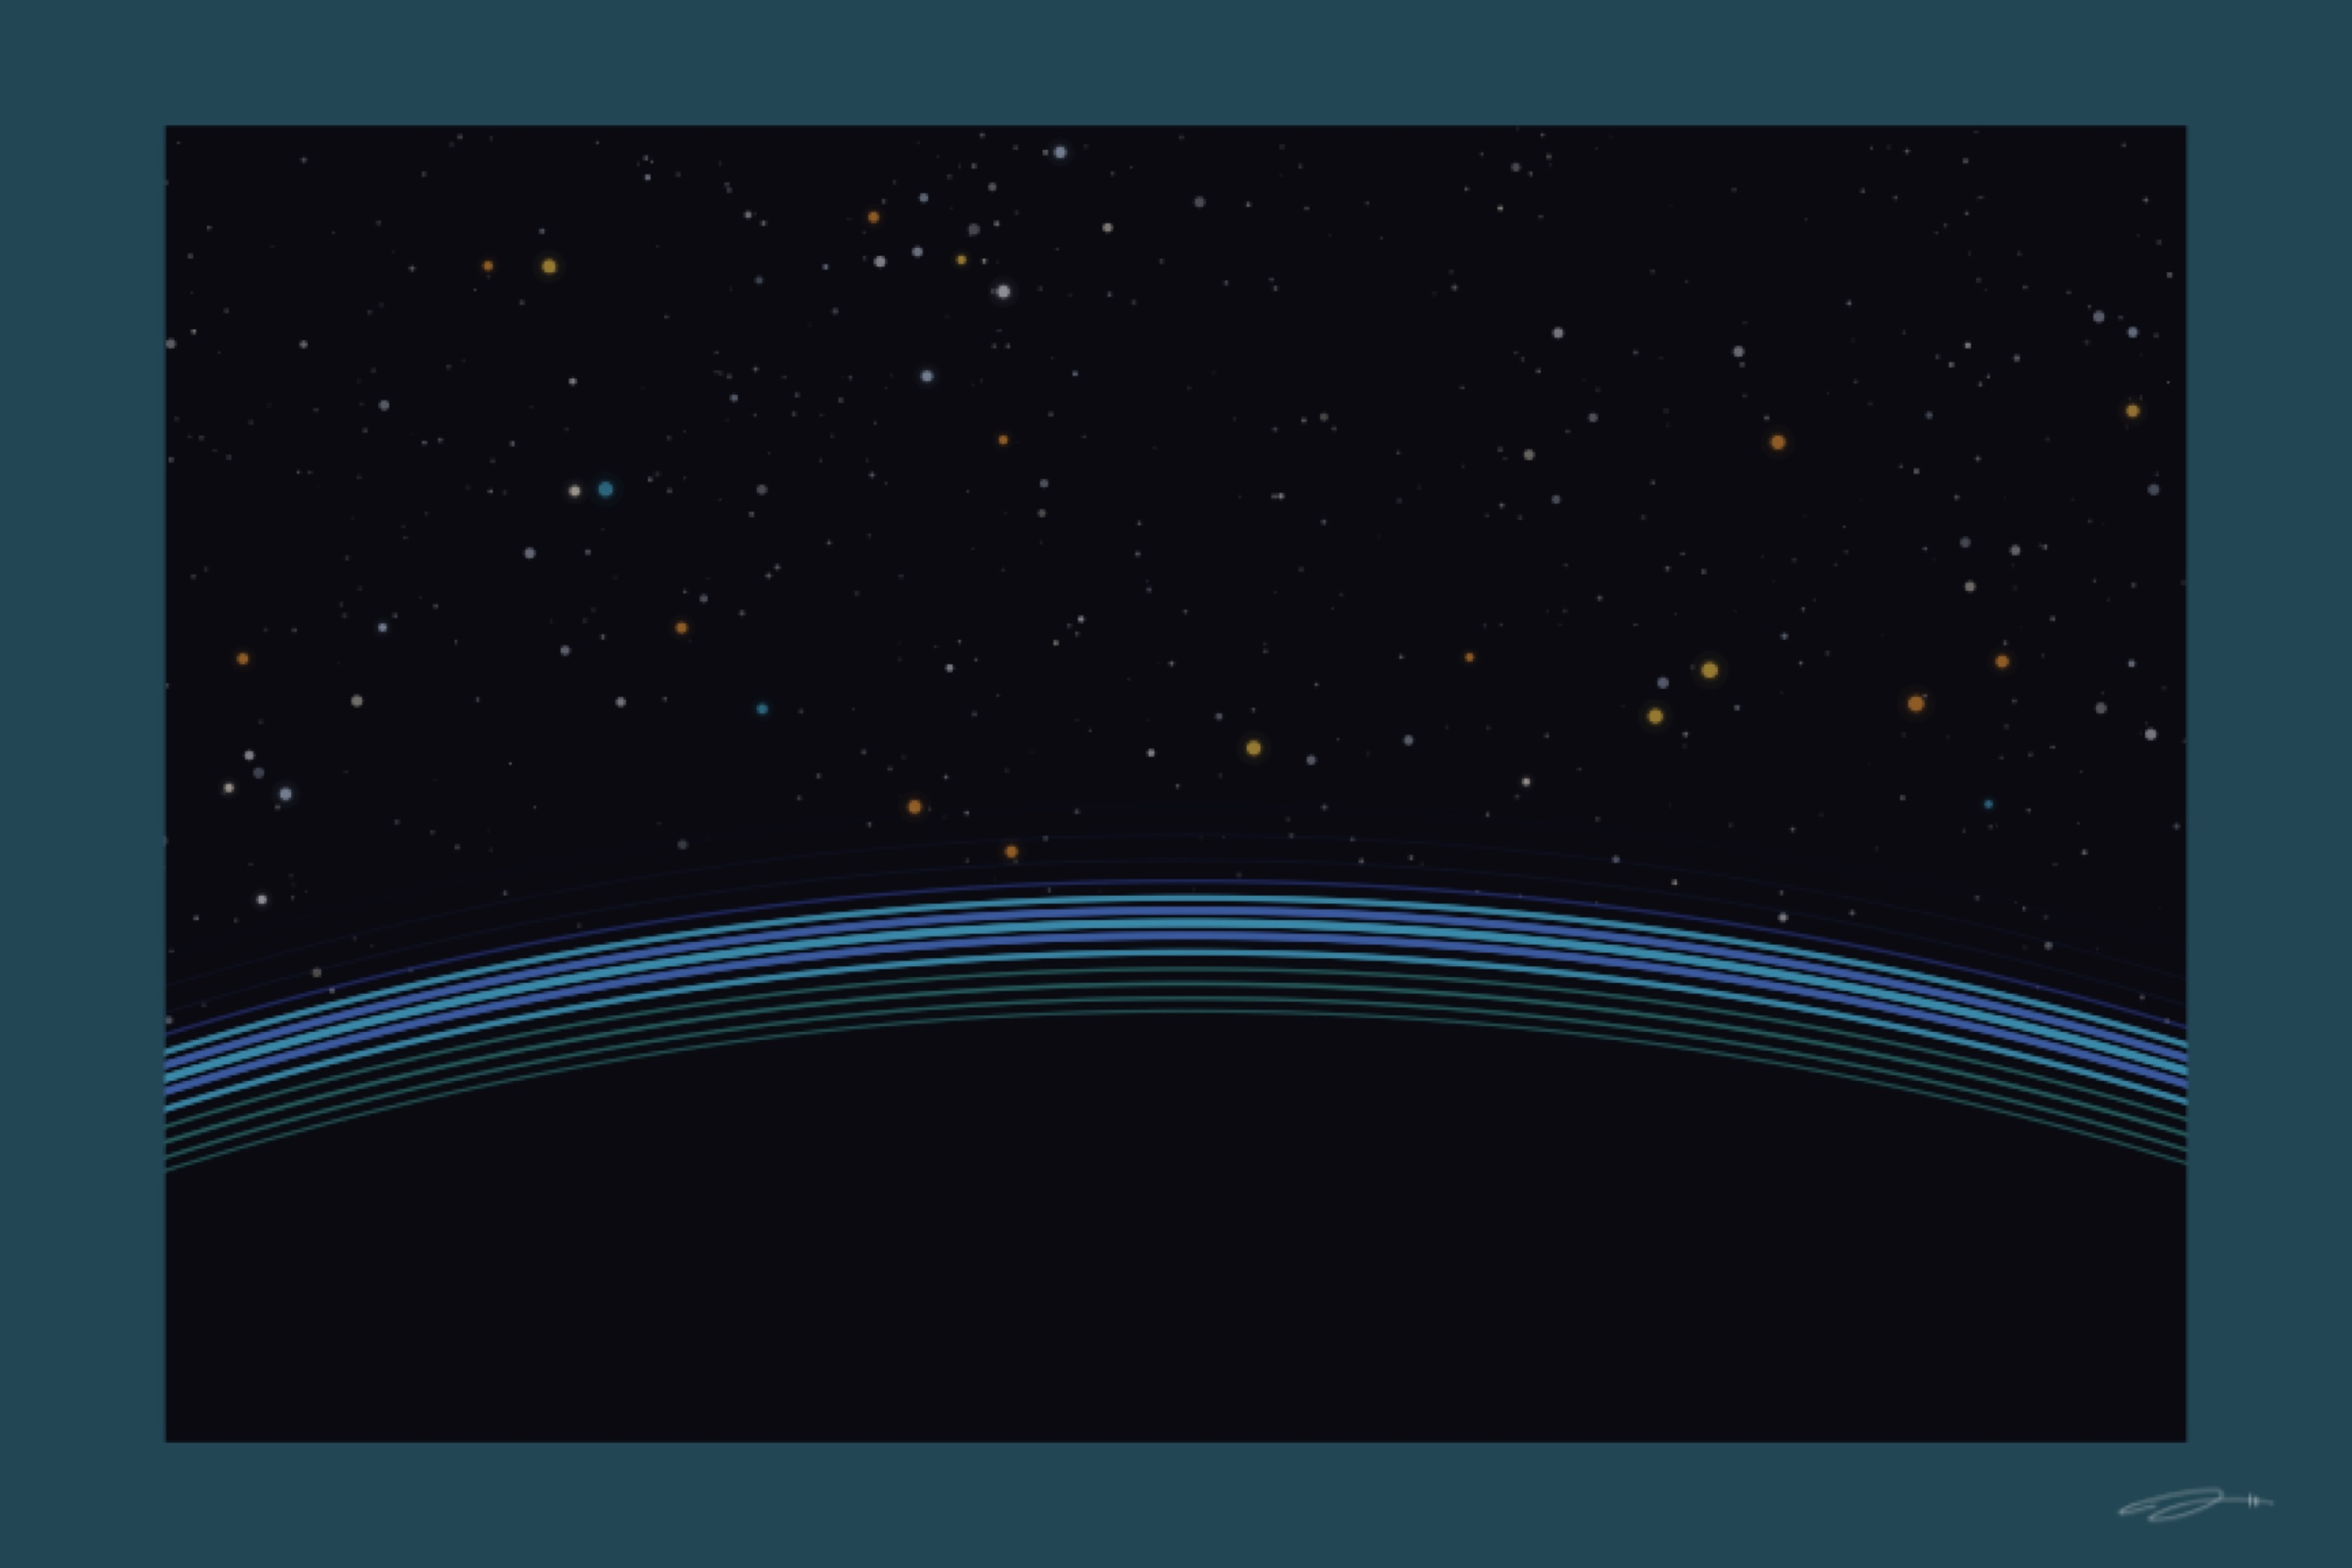
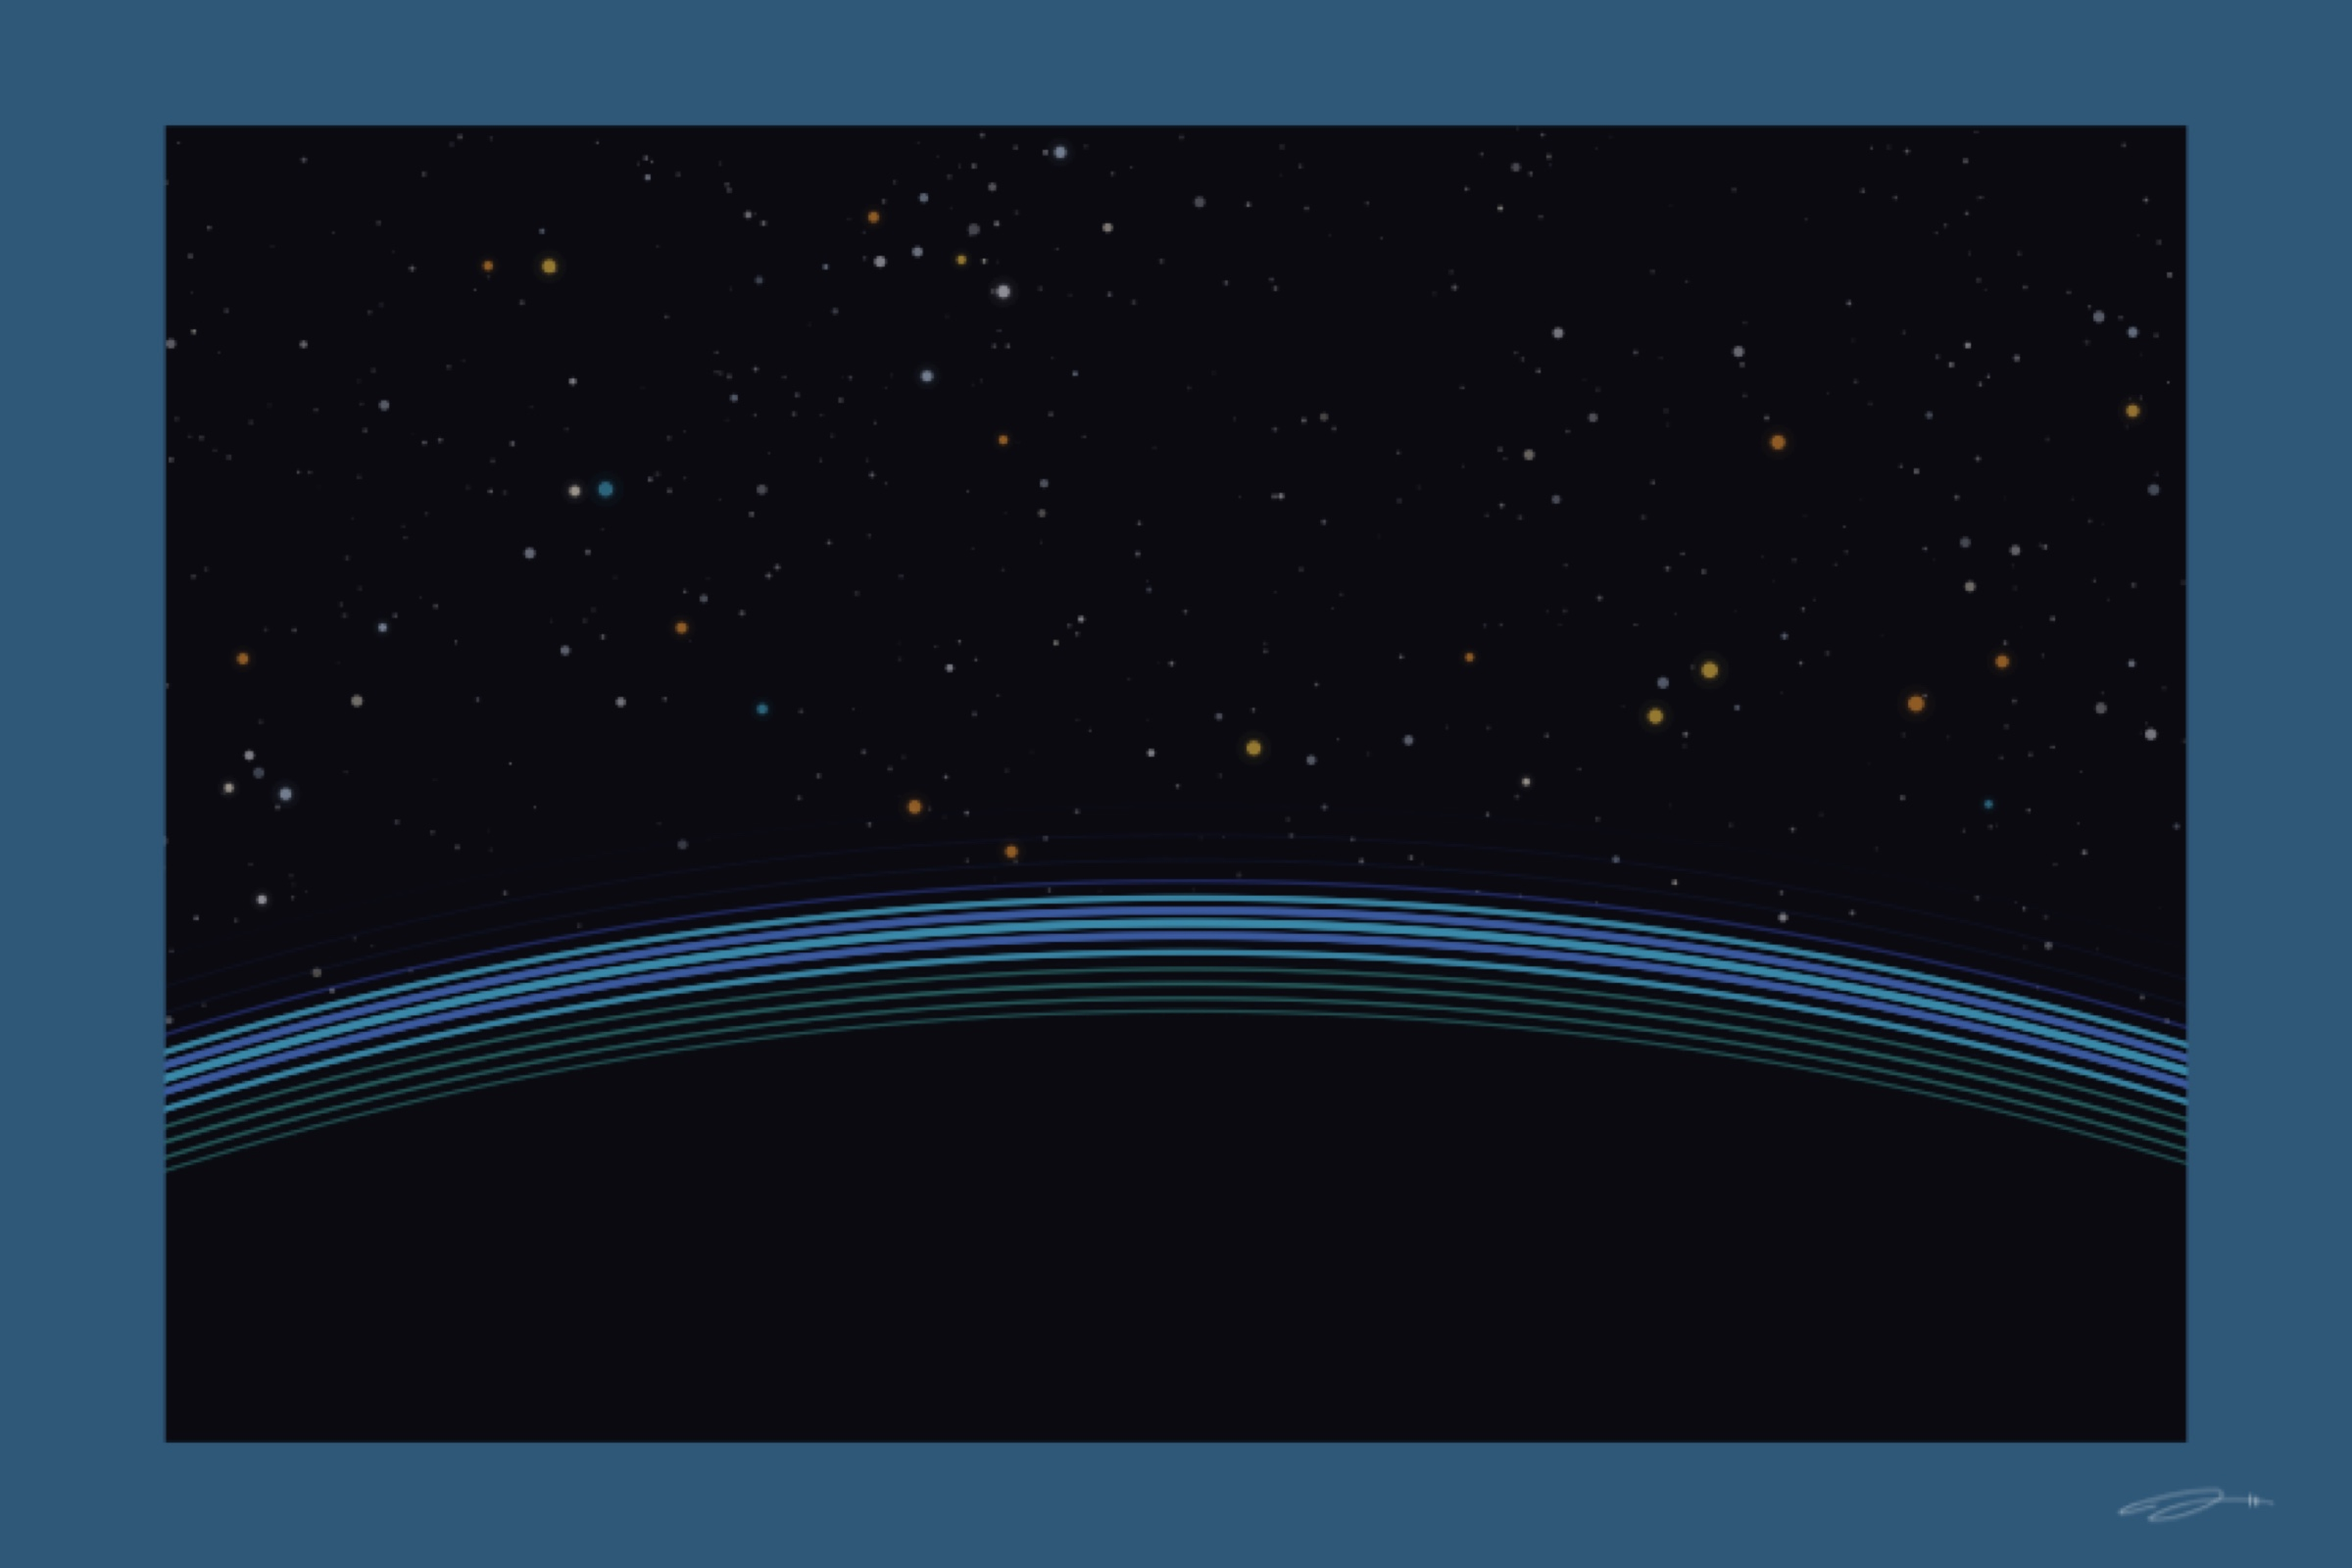
Update overview margin to ocean steel (#2e5778)
Swapped from teal (#224654) to a brighter steel-blue that better
echoes the atmosphere mid-tones in the piece.

Changed region(s): [[0.0, 0.0, 1.0, 1.0]]

diff --git a/mathematical_affect/pieces/awe/awe_overview.py b/mathematical_affect/pieces/awe/awe_overview.py
@@ -50,7 +50,7 @@ import os
 
 DPI = 300; FIG_W = 12; FIG_H = 8
 BG = "#0A0A10"
-MARGIN_COLOR = "#224654"
+MARGIN_COLOR = "#2e5778"
 
 # Palette: cosmic vast
 COSMIC = "#2A3A8A"; NEBULA_P = "#5A3A8A"; STARLIGHT = "#C8C8D0"
